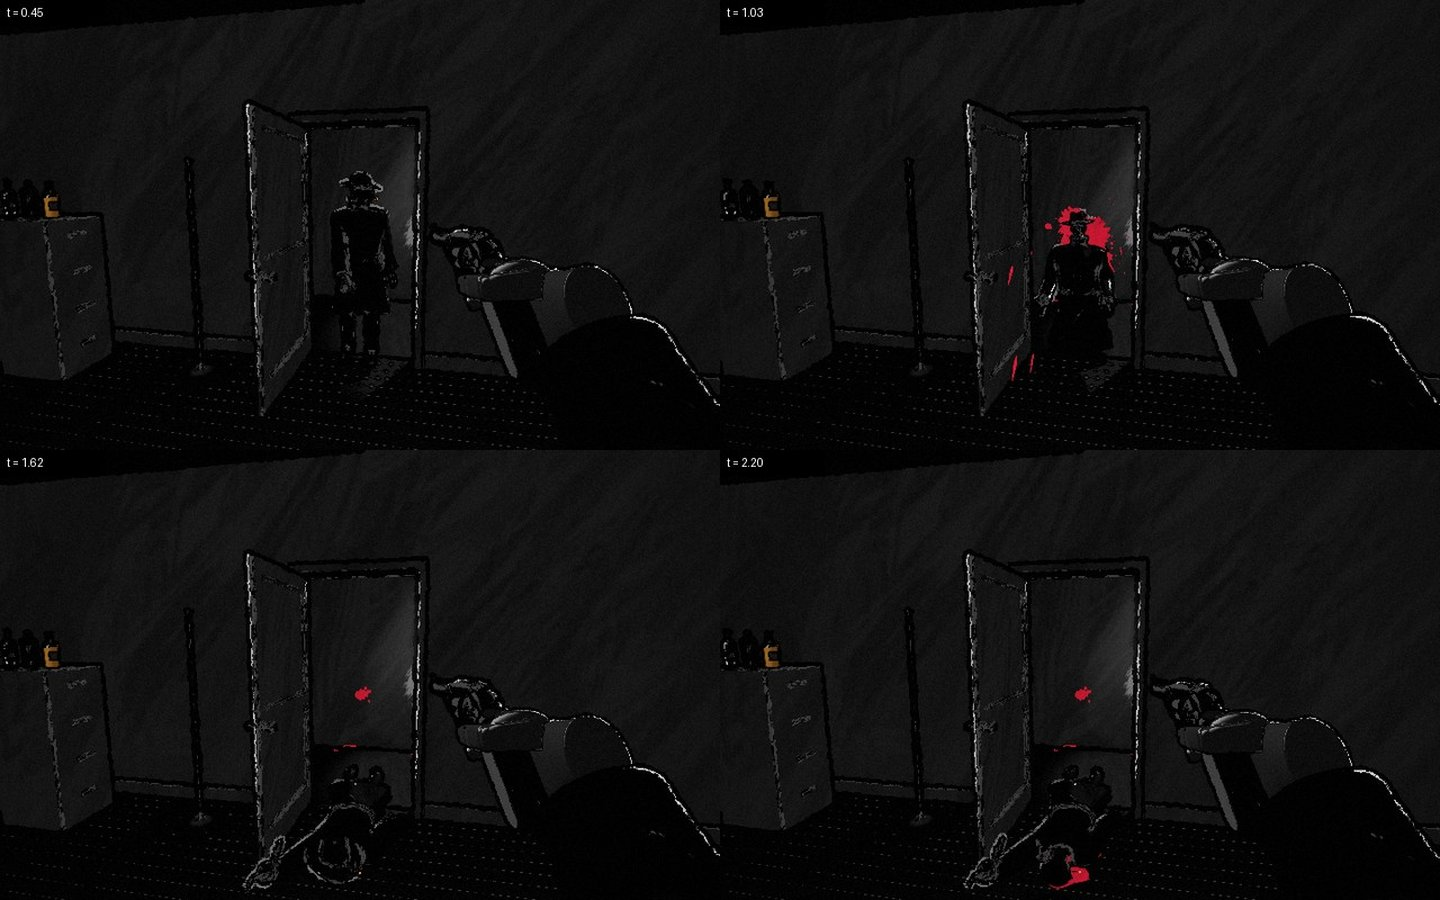
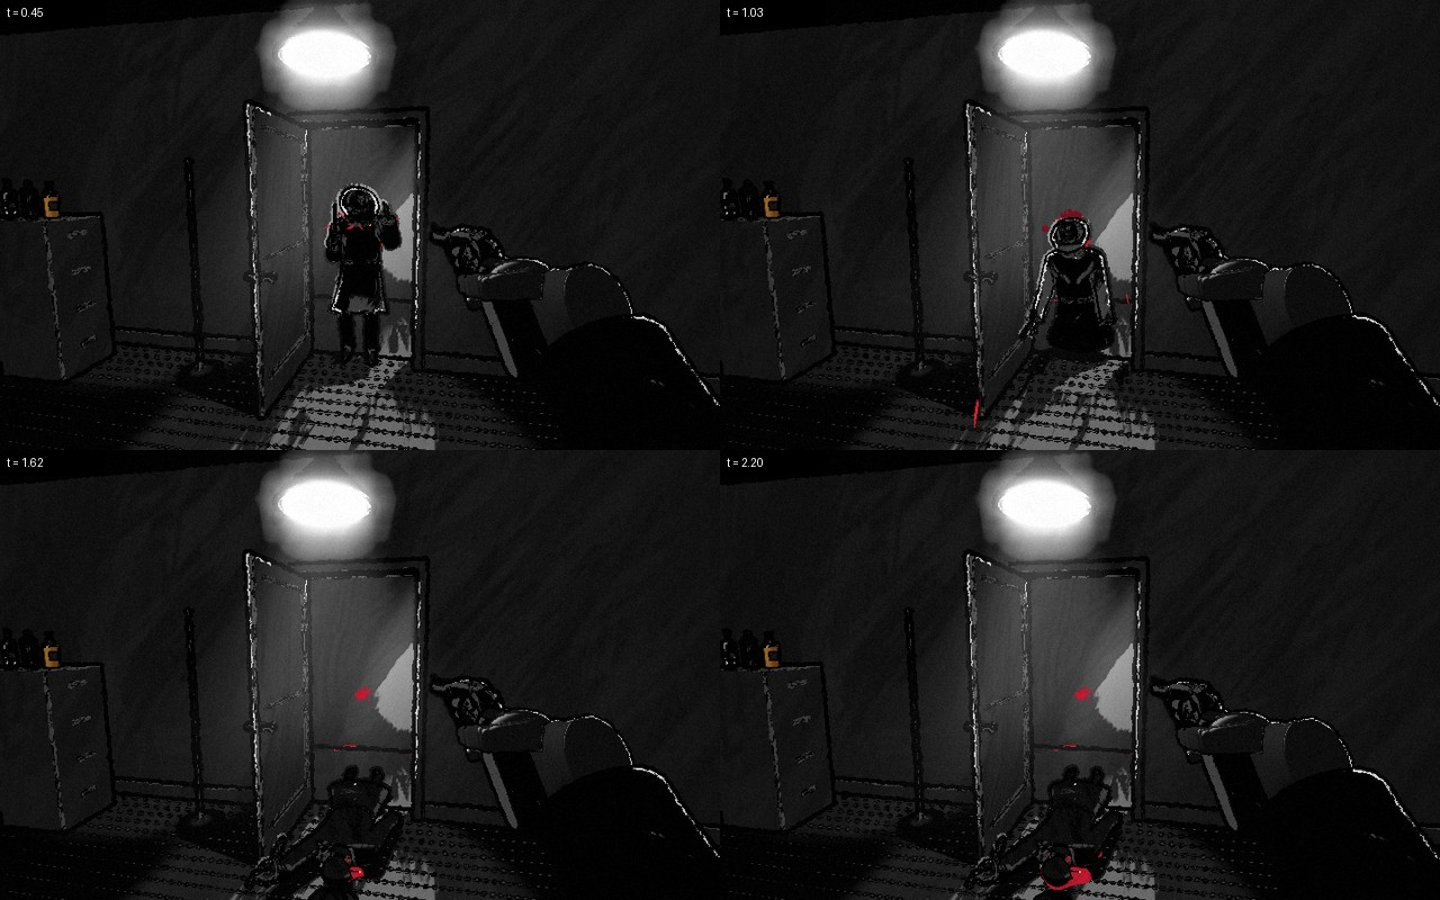
C2: the report as the handover (the second pass, the proofs' last runs on the final code, the gate: golden 32 identical, errors clean on every beat, 1.59 x perf; what is left); the review frames of the second pass (the cards, the doorway's shape, the lit frosted glass, the heavy, the street under th

diff --git a/src/stages/killhouse/parts/house.js b/src/stages/killhouse/parts/house.js
@@ -308,6 +308,8 @@ export default {
       lobby: pendant(-0.4, 3.5, { strength: 0.42, intensity: 30 }),
       lobby2: pendant(-5.6, 4.2, { strength: 0.3, intensity: 18, angle: 0.62 }),
       lobby3: pendant(5.8, 3.8, { strength: 0.3, intensity: 18, angle: 0.62 }),
+      // (a pool on the reception counter: a man behind it is a shape against its light)
+      desk2: pendant(-3.5, 3.3, { strength: 0.4, intensity: 24, angle: 0.6, half: 0.55 }),
     };
     // (an interior's lamps take the pool's lights before a street lamp while the eye is inside)
     const inside = (p) => p.x > HOUSE.x0 - 0.2 && p.x < HOUSE.x1 + 0.2 && p.z > HOUSE.z0 - 0.2 && p.z < HOUSE.z1 + 0.2;

diff --git a/docs/story/reports/wave-c/C2.md b/docs/story/reports/wave-c/C2.md
@@ -88,10 +88,18 @@ could not reach me.
   sound, through (a leaf that would swing into him: a step back first); a
   locked one rattles and holds; an entry that unlocks a door opens the grid
   through it; a way that will not open in 12 s is given up (`guns_doors`).
-- **Standing up is every man's**: the fire tokens are room for the player
-  who fights from cover; a man standing in the open draws them all. The
+- **Standing up in the open is the losing way, cover the winning one**:
+  the fire tokens are room for the player who fights from cover - a man
+  standing up draws every gun; a man standing still in a gunman's line is an
+  easier mark (his settle x0.6); a gunman whose mark stands up, with nothing
+  coming near him, keeps firing (two more bursts) instead of going back. The
   pistol's round stays the brief's 17 (tried 24 and 20: still in the open
-  against two, down in 2.6 s - under the brief's three to four).
+  against two, down in 2.6 s - under the brief's three to four - and the
+  good and clumsy hands suffered).
+- **In time to turn**: a man who has me from off my screen (a flank, a door
+  at my back) needs 0.45 s more before his settle, and the warning says
+  `Behind you!`. Nobody waits the clock out: nine seconds without a line on
+  me, a man comes straight in (a pin once stood still for 150 s).
 - **The Tommy gunner pins, he does not delete**: wider, climbing faster (a
   flank by him is not one burst and down). The heavy: 250 hp (five revolver
   rounds), a hit stops him 0.45 s, shorter bursts further apart. The pin's
@@ -101,7 +109,8 @@ could not reach me.
 - **Heard**: the crouch down and up, the rise over the cover.
 - **The look**: the rooms darker (pools are the light), the corridor lit so
   its doorways frame the men as shapes, a pool inside room A's door (a man
-  coming through steps into the light), the frosted glass lit from behind
+  coming through steps into the light), a pool on the lobby's reception
+  counter, the frosted glass lit from behind
   by the nearest lamp on the far side (the men are shadows on it), the
   warehouse lower with the city's towers over its parapet and a lamp over
   each opening (pools and rain in their cones).
@@ -111,3 +120,129 @@ could not reach me.
   into me came from (pose, kind, flank, through cover); the good hand shoots
   shadows on frosted glass, moves on the warning and off a spent spot,
   watches a man going round, ducks when hit.
+
+## The proofs (tools/plays/guns_*.json, driver tools/lib/c2_guns.mjs)
+
+Last runs: 2026-10-02, all on the final code, one after another (the
+final set). Each try's record: how it ended, the warning's time up before a
+fall (`warnedFor`), the first round into me to the fall (`downIn`), and
+where the rounds into me came from (`took`: my pose, his kind, a flanker's,
+through my cover).
+
+| play | check | result |
+| --- | --- | --- |
+| `guns_idle` | doing nothing loses every contest, each warned a second or more, each with its reason | **PASS** 6/6 lost. Standing still in the open against two: down 3.0 - 3.2 s after the first round (the brief's three to four); pin 6.3, rush 2.8 ("He walked right up to you."), street 8.7 ("Flanked."), street_rev 3.2 ("They had your angle."); warned 1.25 - 11.8 s before |
+| `guns_bad` | standing and trading shots in the open loses most contests, each by a fall with its reason | **PASS** 4/6 lost (two_ways, pin, rush, street_rev); door won (holding the doorway: the beat's lesson), street won (the Tommy gun) at 26 hp. **At the edge**: the run before on the same code lost only 2 (door, pin, rush, street won); see Left |
+| `guns_clumsy` | the first-timer fails some and gets through every contest within three tries, every fall warned | **PASS**: 4 falls (pin once, street_rev twice - "Flanked.", "They had your angle." - then through), door, two_ways, rush, street on the first try |
+| `guns_good` | wins every contest on the first try, twice in a row | **PASS twice** (run A: door 25.6 s, two_ways 21.6, pin 17.8, rush 65.1, street 28.0, street_rev 33.7; run B: 15.7, 21.5, 22.6, 15.4, 41.3, 54.6). Lowest health in a beat: 32. Rounds landing: A 77 % (the revolver's beats 82 %), B 69 % (68 %) |
+| `guns_teach` | the ready beat: the cards once each (with their keys), behind the desk, two bottles from over it, on to `door` | **PASS** 5/5 |
+| `guns_doors` | a man looking for a way to me opens the shut doors between us and never passes a shut leaf; locked doors hold | **PASS** 4/4 (room B to room A through B2 and A2 in ~9 s) |
+| `guns_walk` | into the desk, a living man, a body, a shut door, a locked door (E rattles it), a wall: never through; the lean round a jamb and back | **PASS** 9/9 |
+
+- Every play: `#errlog` clean.
+- The pin is quick now for the good hand (15 - 27 s, was 75 - 100): it
+  shoots the Tommy gunner's shadow through the lit frosted glass, the path
+  the first owner built and could not prove.
+
+## The gate
+
+- `npm run build`: built (the chunk-size warning is the project's own).
+- `NOIR_PORT=5342 python3 tools/golden.py check`: **32 frames IDENTICAL**
+  (battle t15/t30/t45 - the street's old fight -, perf, end, title among
+  them; the killhouse is in none of them).
+- `tools/errors.sh` on `scene=guns&beat=` ready, door, two_ways, pin, rush,
+  street, street_rev, done, the five lab cases, and `start=guns`: all clean.
+- The proofs above, every one PASS on the final code (the pendant over the
+  lobby's reception counter came after them: light only, nothing a man or
+  a round reads).
+- fps (once, at the end, `UNCAPPED=1 tools/fps.mjs` 1440x900; the GPU
+  already 69 - 77 % busy with other work before each run, so only the ratio
+  means anything): `scene=guns&beat=street&t=3` - the heaviest, the towers
+  and the lamps - 68.7 fps (229 calls, 1.05 M tris) against `shot=perf`
+  43.1 fps (729 calls, 2.82 M tris) at the same moment: **1.59 x perf**.
+
+## Shared files changed (each marked `// [C2]`)
+
+- `src/player/Health.js`: `damage(amount, from)` - a hit's splash at the
+  edge it came from; the mending later and slower while `exposed()`.
+- `src/player/Weapon.js`, `src/player/weapons/revolver.js`: in a kit's
+  encounter the round is the kit's (`G.guns.playerRound`); the revolver does
+  not force its 1.2 s stagger on a kit's gunman.
+- `src/enemies/Hood.js` (`die`): a death clip of the kit's is taken.
+- `src/game/Game.js`: `killHood` lets a brain pick the fall
+  (`brain.deathKind`) and emits `hood:down`; `this.bodies = new Bodies(this)`
+  and its per-step `update()` (a no-op with no bodies). (The merge kept
+  C1's `Stills` import beside it.)
+- `src/ui/kit.js` (lane C1's, second pass, one line): `warnAt` is kept while
+  a warning stays up and only its words change, so `Game.spareLast`'s "a
+  second before every fall" is not given again by each change of words.
+
+## For the other lanes
+
+- C5 (IV The Door), C7 (VII Pier Nine), C8 (VIII The Block): `GUNS.md` is
+  the whole contract: `setPose` then `setMode('gun')`, `gunsOf(G).begin({...})`
+  in the beat's setup, `mesh.userData.cover`, doors as the killhouse's
+  `door.js` (with `openBox()` and `spec.swing`: the grid needs them),
+  `K.spawn({ kind, at, way | cover, wait, door })`, the three numbers
+  (`maxFiring`, `settleK`, `dmgK`), `why` and `warn` words, `K.teach(id)`,
+  `ctx.hud.warn(K.warning())` every step, the beats' `objectives` declared.
+  The `office` mode is untouched (IV moves to `gun`).
+- C1: the kit uses `hud.objective`, `hud.teach` (+ `.again`), `hud.warn`,
+  `game.fail` as Z.md has them; the one-line change to `ui/kit.js` above.
+- C4: `game.bodies` (add / steer / free / path / remove) for the diner's
+  people; nothing in the test bed uses it yet.
+- Everyone with headless plays: a scene's setup calls `setPose` and then its
+  mode - `setPose` puts the controller back in `walk` (a play that poses the
+  player must set the mode again).
+
+## Left (most felt first)
+
+1. **Not yet played by a person.** The Browser pane cannot hold the
+   pointer lock and stops drawing while hidden, so the second owner played
+   the ready and door beats by hand only at a quarter speed with input sent
+   from the page, and the rest by the plays and frames. The rise's speed,
+   the lean, the tell's read at a distance and in the dark, the crack past
+   the ear, the new warnings' words and timing: unjudged by a hand on the
+   mouse.
+2. **`guns_bad` is at the edge.** Standing and trading with a fair hand
+   loses 2 - 5 of the 6 contests run to run (the final run 4; the run
+   before on the same code 2). The door beat is won by holding the doorway
+   (its lesson), the street often by the Tommy gun. Levers tried: the
+   pistol's round 24 and 20 (bad lost 4 - 5, but standing still in the open
+   went down in 2.6 s, under the brief's three to four, and the good and
+   clumsy hands suffered), the fire tokens for a standing man, his settle x0.6,
+   two more bursts at a standing mark. Next levers if a person finds
+   standing too easy: `maxFiring`/`dmgK` per chapter (the difficulty table),
+   or the street's men already out when it opens.
+3. **The proofs are noisy**: one try per contest for idle and bad, three
+   for clumsy; between runs a contest flips. The good hand passed twice in a
+   row on the final code (and failed single contests in earlier runs on
+   other code: two_ways, pin, street - flanks while down).
+4. **The good hand lands 69 - 77 % of its rounds** (the revolver's beats 68 -
+   82 %; the brief: 60 - 70 %). A wider hand was not tried again this pass.
+5. **The street's men are there when it opens** (`cover: true`), not
+   walking in; only the fourth walks in.
+6. **A door's leaf does not stop against a body** (it stops against the
+   living and the player): a door shut on a man who fell in its doorway
+   would pass through him. The test bed never shuts a door then.
+7. **Door handling is proven on the killhouse's six doors** (push and pull,
+   locked and not); a door that swings both ways (`spec.both`) is untested
+   with the men's reaching for it.
+8. **Looks**: the frosted glass glows evenly and bright (pane 1's lettering
+   is washed out); the pendant shades read as glowing discs from below; the
+   near car's lens is a white oval in the street (the block's sedan, as in
+   VIII); the warehouse wall is long and plain. The kneel, the Tommy
+   gunner's exposed drum change and the heavy's walk: frames and strips
+   only, not seen in motion by eye.
+9. **`game.bodies`** is wired and probed but nothing in the test bed steers
+   with it (the gunmen use the Hood brain's path following and the kit's
+   `resolveMan`); C4 is its first user.
+
+## Review frames (`docs/story/review/wave-c/C2/`, 1440 x 900)
+
+`01_cards` (the objective and `[C] get low` over room A), `02_door_shape`
+(a man in the lit doorway, a shape), `03_pin_glass` (the bar, the frosted
+glass lit), `04_rush_heavy`, `05_street` (the towers over the warehouse, the
+lamps over its openings), `06_street_fight`, `07_warning_behind`,
+`08_fall_reason`, the deaths' strips `09_death_door`, `10_death_over`,
+`11_death_wall`, `12_death_open`, and `13_kneel`.
